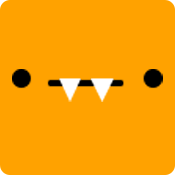
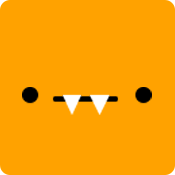
added alternate hero and friendly colors

Changed region(s): [[0.2571, 0.4286, 0.7143, 0.6571], [0.7714, 0.3714, 0.9429, 0.6], [0.0571, 0.3714, 0.2286, 0.6]]

diff --git a/Avert/GameScene.swift b/Avert/GameScene.swift
@@ -294,7 +294,7 @@ class GameScene: SKScene, SKPhysicsContactDelegate {
         //Create starting hero and position center
         let heroSideLength = self.heroView!.frame.width * 0.035
         let heroSize = CGSize(width: heroSideLength, height: heroSideLength)
-        var texture = SKTexture(image: UIImage(named: "hero")!)
+        var texture = SKTexture(image: UIImage(named: "hero2")!)
         self.hero = SKSpriteNode(texture: texture, size: heroSize)
         self.hero.position = CGPointMake(self.heroView!.frame.width/2, self.heroView!.frame.height/2)
         self.heroCategory = (self.friendCategory | self.enemyCategory | self.powerupCategory)

diff --git a/Avert/Shape.swift b/Avert/Shape.swift
@@ -60,7 +60,7 @@ class Shape {
         switch self.team {
         case .Friend:
             sprite.color = UIColor(red: 0, green: 144/255, blue: 1, alpha: 1)
-            sprite.texture = SKTexture(image: UIImage(named: "friendlies")!)
+            sprite.texture = SKTexture(image: UIImage(named: "friendlies2")!)
         case .Enemy:
             sprite.color = UIColor(red: 1, green: 150/255, blue: 0, alpha: 1)
             sprite.texture = SKTexture(image: UIImage(named: "enemies")!)
